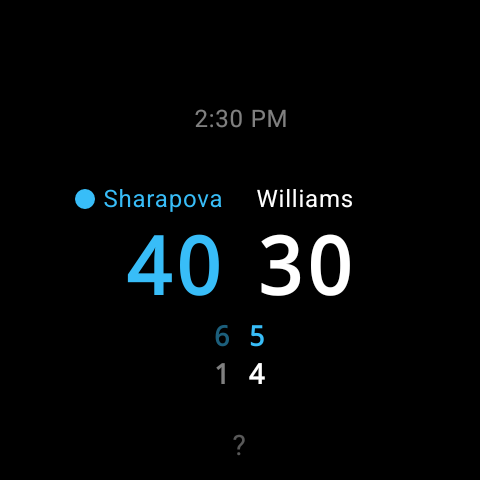
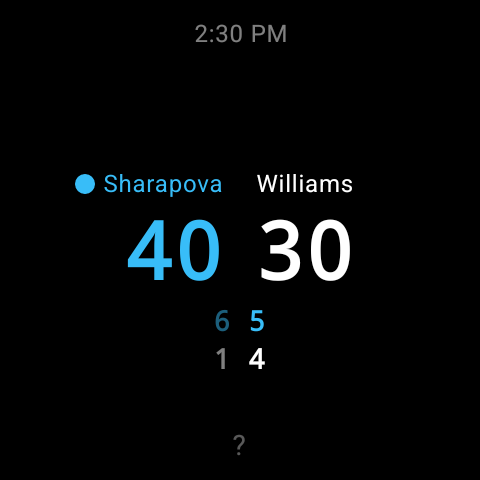
Push time on top and name slightly higher

Changed region(s): [[0.1562, 0.3438, 0.75, 0.8125], [0.4062, 0.2188, 0.5938, 0.2812], [0.4062, 0.0312, 0.5938, 0.0938]]

diff --git a/wear/src/main/java/com/nuttyknot/tennisscoretracker/wear/ui/WearScoreScreen.kt b/wear/src/main/java/com/nuttyknot/tennisscoretracker/wear/ui/WearScoreScreen.kt
@@ -120,8 +120,8 @@ private fun AmbientScoreContent(
                 .fillMaxSize()
                 .padding(SCREEN_PADDING),
         horizontalAlignment = Alignment.CenterHorizontally,
-        verticalArrangement = Arrangement.Center,
     ) {
+        // Time — fixed at very top of screen
         if (currentTime.isNotEmpty()) {
             Text(
                 text = currentTime,
@@ -130,35 +130,41 @@ private fun AmbientScoreContent(
                 color = Color.Gray,
                 textAlign = TextAlign.Center,
             )
-            Spacer(modifier = Modifier.height(SPACER_HEIGHT))
         }
-        Text(
-            text = "${scoreDisplay.userScore} - ${scoreDisplay.opponentScore}",
-            fontSize = SCORE_FONT_SIZE,
-            fontWeight = FontWeight.Bold,
-            fontFamily = FontFamily.Monospace,
-            color = Color.White,
-            textAlign = TextAlign.Center,
-        )
-        Spacer(modifier = Modifier.height(SPACER_HEIGHT))
-        Row(
-            horizontalArrangement = Arrangement.spacedBy(INNER_PADDING * 2),
+        // Score content — centered in remaining space
+        Column(
+            modifier = Modifier.weight(1f),
+            horizontalAlignment = Alignment.CenterHorizontally,
+            verticalArrangement = Arrangement.Center,
         ) {
-            scoreDisplay.setHistory.forEach { (user, opp) ->
-                Text(
-                    text = "$user-$opp",
-                    fontSize = DETAIL_FONT_SIZE,
-                    fontFamily = FontFamily.Monospace,
-                    color = Color.Gray,
-                )
-            }
-            if (!scoreDisplay.isMatchOver) {
-                Text(
-                    text = "${scoreDisplay.userGames}-${scoreDisplay.opponentGames}",
-                    fontSize = DETAIL_FONT_SIZE,
-                    fontFamily = FontFamily.Monospace,
-                    color = Color.Gray,
-                )
+            Text(
+                text = "${scoreDisplay.userScore} - ${scoreDisplay.opponentScore}",
+                fontSize = SCORE_FONT_SIZE,
+                fontWeight = FontWeight.Bold,
+                fontFamily = FontFamily.Monospace,
+                color = Color.White,
+                textAlign = TextAlign.Center,
+            )
+            Spacer(modifier = Modifier.height(SPACER_HEIGHT))
+            Row(
+                horizontalArrangement = Arrangement.spacedBy(INNER_PADDING * 2),
+            ) {
+                scoreDisplay.setHistory.forEach { (user, opp) ->
+                    Text(
+                        text = "$user-$opp",
+                        fontSize = DETAIL_FONT_SIZE,
+                        fontFamily = FontFamily.Monospace,
+                        color = Color.Gray,
+                    )
+                }
+                if (!scoreDisplay.isMatchOver) {
+                    Text(
+                        text = "${scoreDisplay.userGames}-${scoreDisplay.opponentGames}",
+                        fontSize = DETAIL_FONT_SIZE,
+                        fontFamily = FontFamily.Monospace,
+                        color = Color.Gray,
+                    )
+                }
             }
         }
     }
@@ -182,22 +188,22 @@ private fun ScoreContent(
                 .padding(SCREEN_PADDING),
         horizontalAlignment = Alignment.CenterHorizontally,
     ) {
-        // Top section: time + status — pushed to bottom of its space
+        // Time — fixed at very top of screen
+        if (currentTime.isNotEmpty()) {
+            Text(
+                text = currentTime,
+                fontSize = LABEL_FONT_SIZE,
+                color = Color.White.copy(alpha = SCOREBOARD_MUTED_ALPHA),
+                textAlign = TextAlign.Center,
+            )
+        }
+
+        // Top section: status — pushed to bottom of its space
         Column(
             modifier = Modifier.weight(TOP_SECTION_WEIGHT),
             horizontalAlignment = Alignment.CenterHorizontally,
             verticalArrangement = Arrangement.Bottom,
         ) {
-            if (currentTime.isNotEmpty()) {
-                Text(
-                    text = currentTime,
-                    fontSize = LABEL_FONT_SIZE,
-                    color = Color.White.copy(alpha = SCOREBOARD_MUTED_ALPHA),
-                    textAlign = TextAlign.Center,
-                )
-                Spacer(modifier = Modifier.height(SPACER_HEIGHT))
-            }
-
             val statusText =
                 if (scoreDisplay.isMatchOver && scoreDisplay.matchWinner != null) {
                     "${scoreDisplay.matchWinner} wins!"

diff --git a/wear/src/main/java/com/nuttyknot/tennisscoretracker/wear/ui/WearScoreScreenConstants.kt b/wear/src/main/java/com/nuttyknot/tennisscoretracker/wear/ui/WearScoreScreenConstants.kt
@@ -15,6 +15,6 @@ internal const val COLOR_SKY_BLUE = 0xFF38BDF8
 internal const val COLOR_TENNIS_GREEN = 0xFF4CAF50
 internal val DEFAULT_PRIMARY_COLOR = Color(COLOR_SKY_BLUE)
 internal val DEFAULT_SECONDARY_COLOR = Color.White
-internal const val TOP_SECTION_WEIGHT = 1f
+internal const val TOP_SECTION_WEIGHT = 0.65f
 internal const val BOTTOM_SECTION_WEIGHT = 1.5f
 internal val HELP_TAP_ZONE_MAX_HEIGHT = 72.dp
